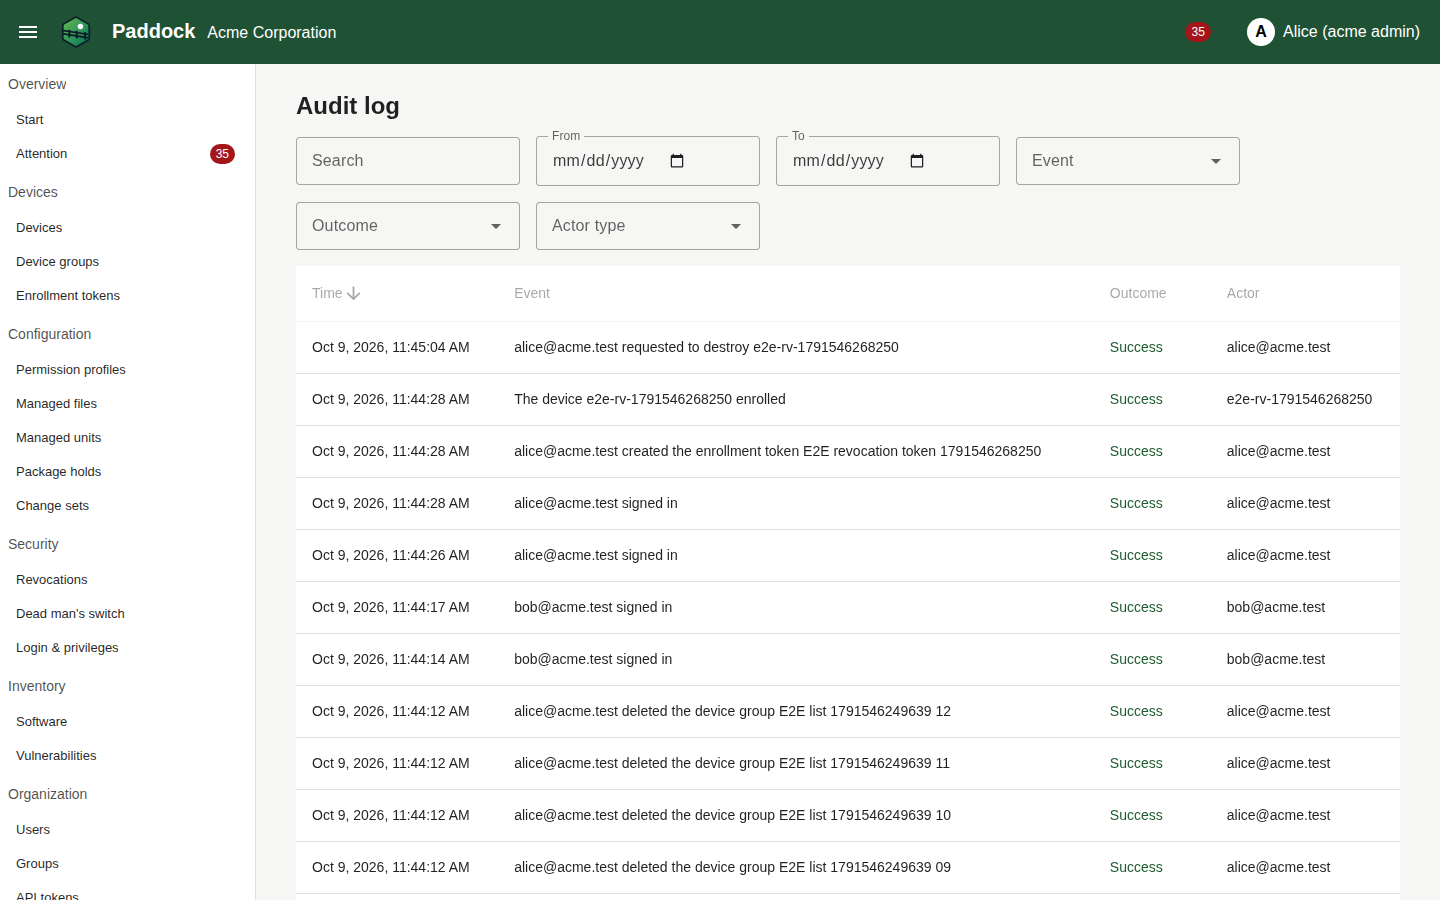
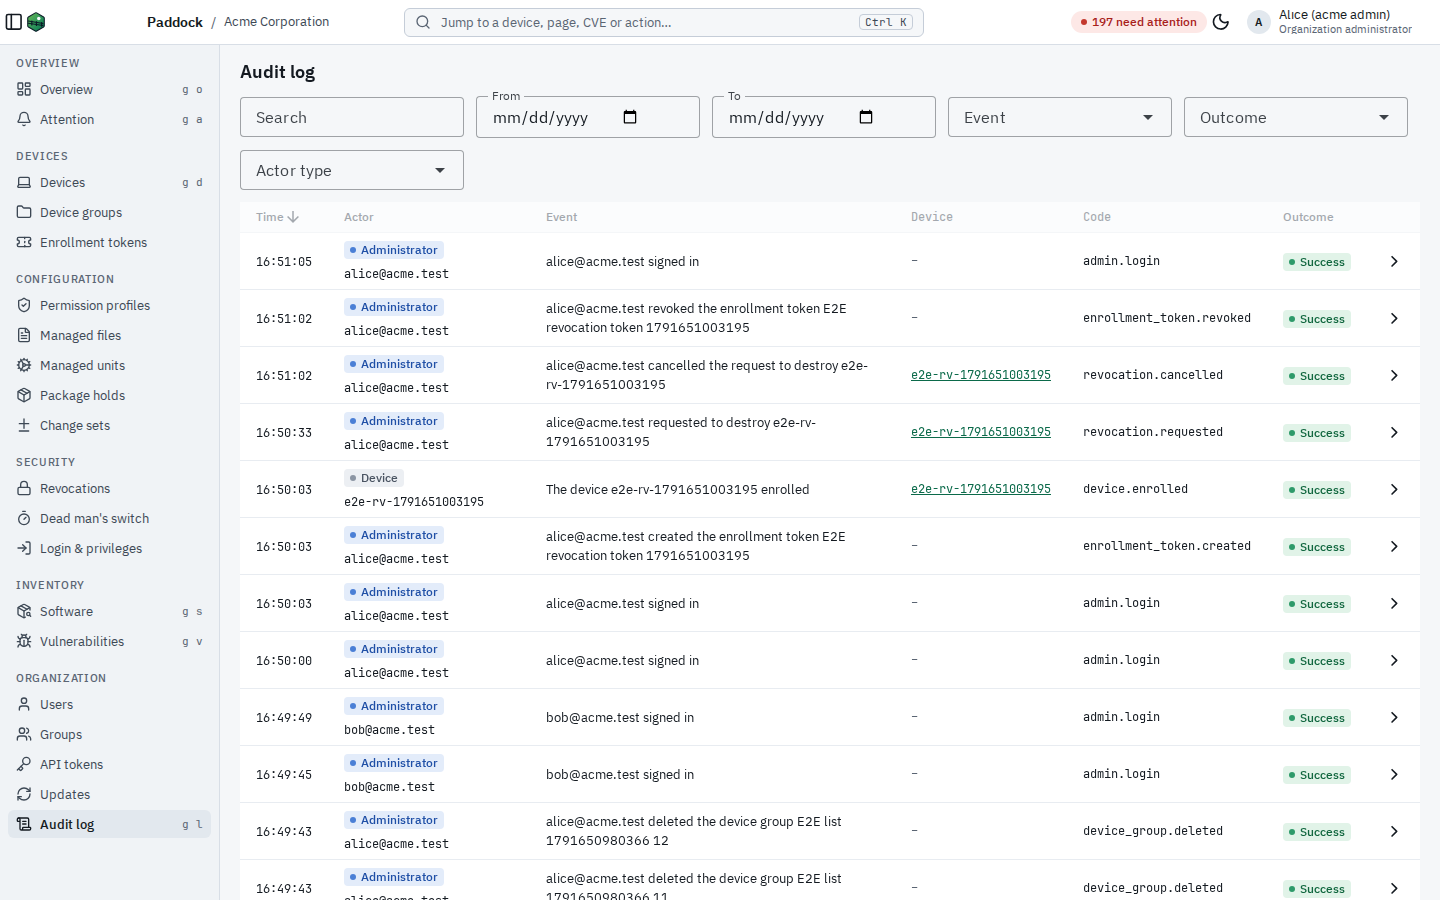
docs: portal screenshots in both themes
Claude-Session: https://claude.ai/code/session_01HnWA4LJ5KmdKyV3NCyeQLk

diff --git a/CHANGELOG.md b/CHANGELOG.md
@@ -45,7 +45,7 @@ and this project adheres to [Semantic Versioning](https://semver.org/spec/v2.0.0
 - Status chips, empty states and phone layout everywhere (M7c step 9): device, token, API token, revocation, agent release and rollout, organization, user lock, user and group source, change set source and permission profile badges are chips with a dot and a label; list timestamps are mono, one line, relative for last contact and last use. Every empty list says what it is for and, when the role may act, offers the next step (for example *Create device group*; the device list links to the enrollment tokens). Settings forms show one panel per section with fields as wide as their content. At 390 px no page scrolls horizontally, lists are cards and filters open in a sheet. New end-to-end gates check the phone layout and run the accessibility check in the light and the dark theme.
 - Audit log and attention pages (M7c step 8): audit sentences name a device by its hostname instead of its ID, a Device column links to it, timestamps are one mono line, the actor carries a type chip, the outcome is a chip, and a row expands to the stored event fields and params, shown unchanged. A device's new Audit tab lists its events (administrators and auditors). The attention page lists one row per device with its open conditions as chips, most severe first, and one action.
 - Device split view (M7c step 7): a device opens beside the device list (a pane with search and filters that keeps the list the administrator came from; hidden below 960 px), under a header band with the hostname, status chips (contact, encryption, logins suspended, locked), Ubuntu release, agent version and last contact, and the primary actions — approve, reject or release for new and quarantined devices, *Install updates…* and *Rotate admin password…* for active ones. The device's sections are tabs with their own URLs (Overview, Software, Vulnerabilities, Login & sudo, Configuration, Commands; `Alt+1…9`). The Overview tab shows health and compliance at a glance, identity with a copyable device ID, device groups, the local administrator, disk encryption, updates and the top findings; Lock, Destroy and Retire sit in the danger zone at its end, each with its own explanation and dialog, and the reason for a Lock or Destroy is entered in the dialog.
-- Portal overview (M7c step 6): administrators and operators start on a new overview page with the fleet numbers (online, silent, presumed lost, encrypted, not encrypted, devices with critical or high CVEs, security updates overdue, reboots required), each linked to its pre-filtered list, the attention list grouped by device, a severity bar of devices by their worst finding with the top CVEs, updates and the agent rollout, and the recent audit activity (administrators and auditors). Every KPI number equals the total of the list it opens: the device KPIs open the active devices filtered by contact, disk state or overdue security updates, and *Critical / high CVEs* counts distinct CVEs like the vulnerability list. Auditors start on the audit log. The device list filters by contact state and by overdue security updates (`GET /api/v1/devices?security_updates=overdue`, no successful run in 48 hours); `GET /api/v1/attention/devices` filters by `device_id`; the overview reports `vulnerabilities.critical_high_cves`. The vulnerability tile on the device groups and vulnerabilities pages is replaced by the overview.
+- Portal overview (M7c step 6): administrators and operators start on a new overview page with the fleet numbers (online, silent, presumed lost, encrypted, not encrypted, the number of distinct critical or high CVEs, security updates overdue, reboots required), each linked to its pre-filtered list, the attention list grouped by device, a severity bar of devices by their worst finding with the top CVEs, updates and the agent rollout, and the recent audit activity (administrators and auditors). Every KPI number equals the total of the list it opens: the device KPIs open the active devices filtered by contact, disk state or overdue security updates, and *Critical / high CVEs* counts distinct CVEs like the vulnerability list. Auditors start on the audit log. The device list filters by contact state and by overdue security updates (`GET /api/v1/devices?security_updates=overdue`, no successful run in 48 hours); `GET /api/v1/attention/devices` filters by `device_id`; the overview reports `vulnerabilities.critical_high_cves`. The vulnerability tile on the device groups and vulnerabilities pages is replaced by the overview.
 - Overview and grouped attention API (M7c step 5, ADR 0023): `GET /api/v1/overview` returns the organization's fleet numbers in one transaction (devices by state and contact, encryption, devices by their worst finding and the top CVEs, security updates overdue for more than 48 hours, reboots required, agent rollout, Ubuntu releases, open attention conditions and devices); `GET /api/v1/attention/devices` lists the attention conditions grouped by device, most severe first, with the `kind` filter and the sorts `severity`, `hostname` and `since`; devices carry a derived `contact` state (`never`, `ok`, `stale_warning`, `stale_critical`, `presumed_lost`) and `GET /api/v1/devices` filters by it; audit events carry the device they concern with its current hostname (`device`, resolved at read time; the stored event is unchanged) and `GET /api/v1/audit-events` filters by `target_id`. Database migrations `00038` (paddock) and `00003` (audit) run automatically.
 - Shared portal components (M7c step 4): status chips with a dot and a label (`StatusChip`, one vocabulary ok / warn / critical / info / neutral; `SeverityChip` on its own scale with an orange *high*), an actor chip for audit events, mono timestamps (`YYYY-MM-DD HH:MM`, the time only for today, relative in tables with the absolute value as tooltip), empty states with the next step, a danger zone card for Lock, Destroy and Retire (each with its own explanation and dialog; the reason is typed in the confirm dialog, which also requires the hostname and keeps Cancel focused), and list extensions: cards below 600 px with the filters in a sheet, a row cursor (`j`/`k`, Enter/`o`), expandable rows, "Clear filters" on an empty filtered list, and query prefixes so two lists share one page.
 - Portal shell (M7c step 3): a 44 px app bar with the organization name, a command field that opens the command palette (`Ctrl K` / `⌘ K`, `/`; pages, devices, device groups, a CVE id and non-destructive actions such as switching the theme, language, density or navigation), a labelled attention pill ("3 need attention") instead of the bare badge, a theme toggle, and a user menu with language, theme (System / Light / Dark, stored on the account), density (Compact / Comfortable, per browser) and the keyboard-shortcut help. The navigation drawer has icons, overline group headers, `g`-shortcut hints, one Tab stop with Up/Down/Home/End, collapses to a 52 px rail with tooltips (`[`; expanded by default from 1280 px, a rail between 600 and 1279 px, a temporary drawer below) and scrolls independently. Global shortcuts: `g o/a/d/s/v/l` navigate, `j`/`k`/Enter work in lists, `?` lists every shortcut; single-key shortcuts can be switched off in the help dialog; no shortcut or palette entry performs a destructive or security-relevant action.

diff --git a/README.md b/README.md
@@ -19,12 +19,28 @@ and German.
 
 <p align="center">
   <picture>
+    <source media="(prefers-color-scheme: dark)" srcset="docs/assets/screenshots/overview-dark.png">
+    <img src="docs/assets/screenshots/overview-light.png" alt="The overview of the Paddock portal" width="800">
+  </picture>
+</p>
+
+<p align="center">
+  <picture>
+    <source media="(prefers-color-scheme: dark)" srcset="docs/assets/screenshots/devices-dark.png">
     <img src="docs/assets/screenshots/devices-light.png" alt="The device list of the Paddock portal" width="800">
   </picture>
 </p>
 
 <p align="center">
   <picture>
+    <source media="(prefers-color-scheme: dark)" srcset="docs/assets/screenshots/device-dark.png">
+    <img src="docs/assets/screenshots/device-light.png" alt="A device page of the Paddock portal" width="800">
+  </picture>
+</p>
+
+<p align="center">
+  <picture>
+    <source media="(prefers-color-scheme: dark)" srcset="docs/assets/screenshots/audit-dark.png">
     <img src="docs/assets/screenshots/audit-light.png" alt="The audit log of the Paddock portal" width="800">
   </picture>
 </p>
